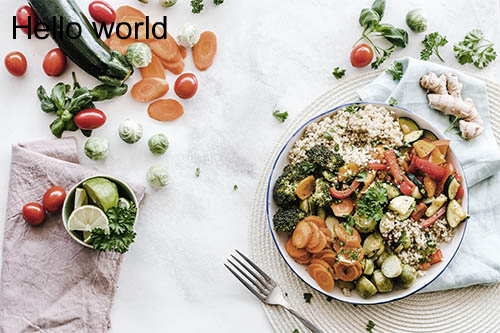
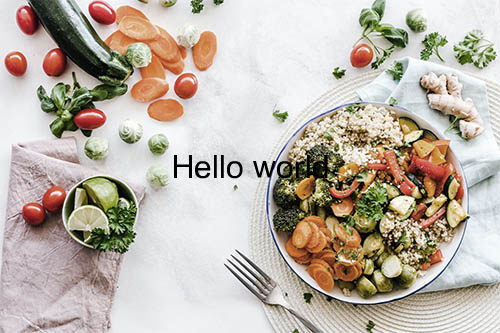
Modify func addTextWatermarkToImage - text on center

Changed region(s): [[0.0, 0.0601, 0.36, 0.1201], [0.33, 0.4505, 0.66, 0.5405]]

diff --git a/app.js b/app.js
@@ -3,7 +3,13 @@ const Jimp = require('jimp');
 const addTextWatermarkToImage = async function(inputFile, outputFile, text) {
   const image = await Jimp.read(inputFile);
   const font = await Jimp.loadFont(Jimp.FONT_SANS_32_BLACK);
-  image.print(font, 10, 10, text);
+  const textData = {
+    text,
+    alignmentX: Jimp.HORIZONTAL_ALIGN_CENTER,
+    alignmentY: Jimp.VERTICAL_ALIGN_MIDDLE,
+  };
+
+  image.print(font, 0, 0, textData, image.getWidth(), image.getHeight());
   await image.quality(100).writeAsync(outputFile);
 };
 
